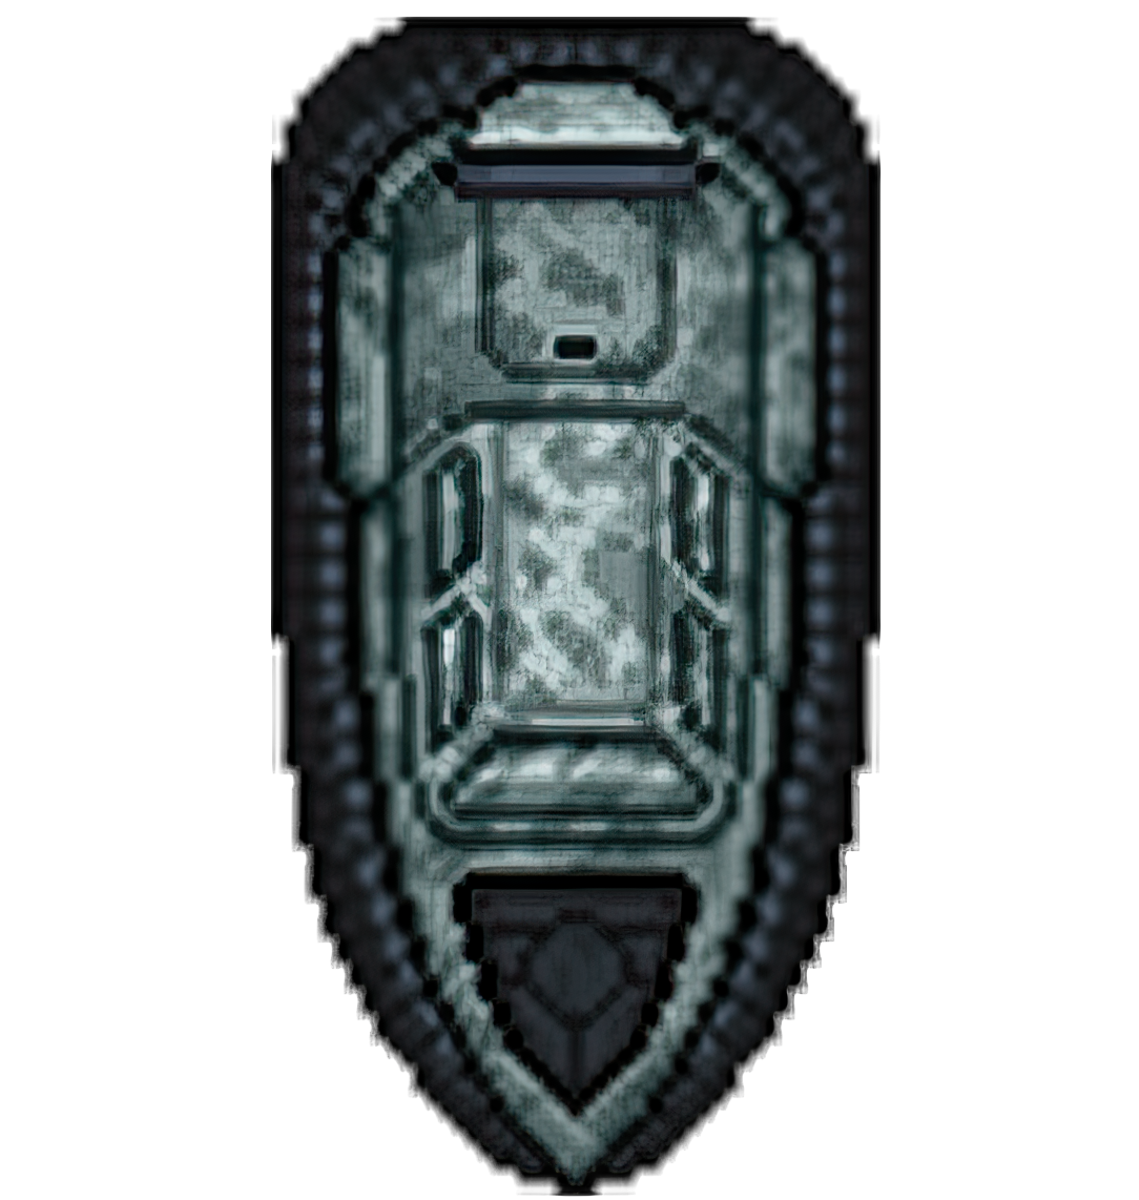
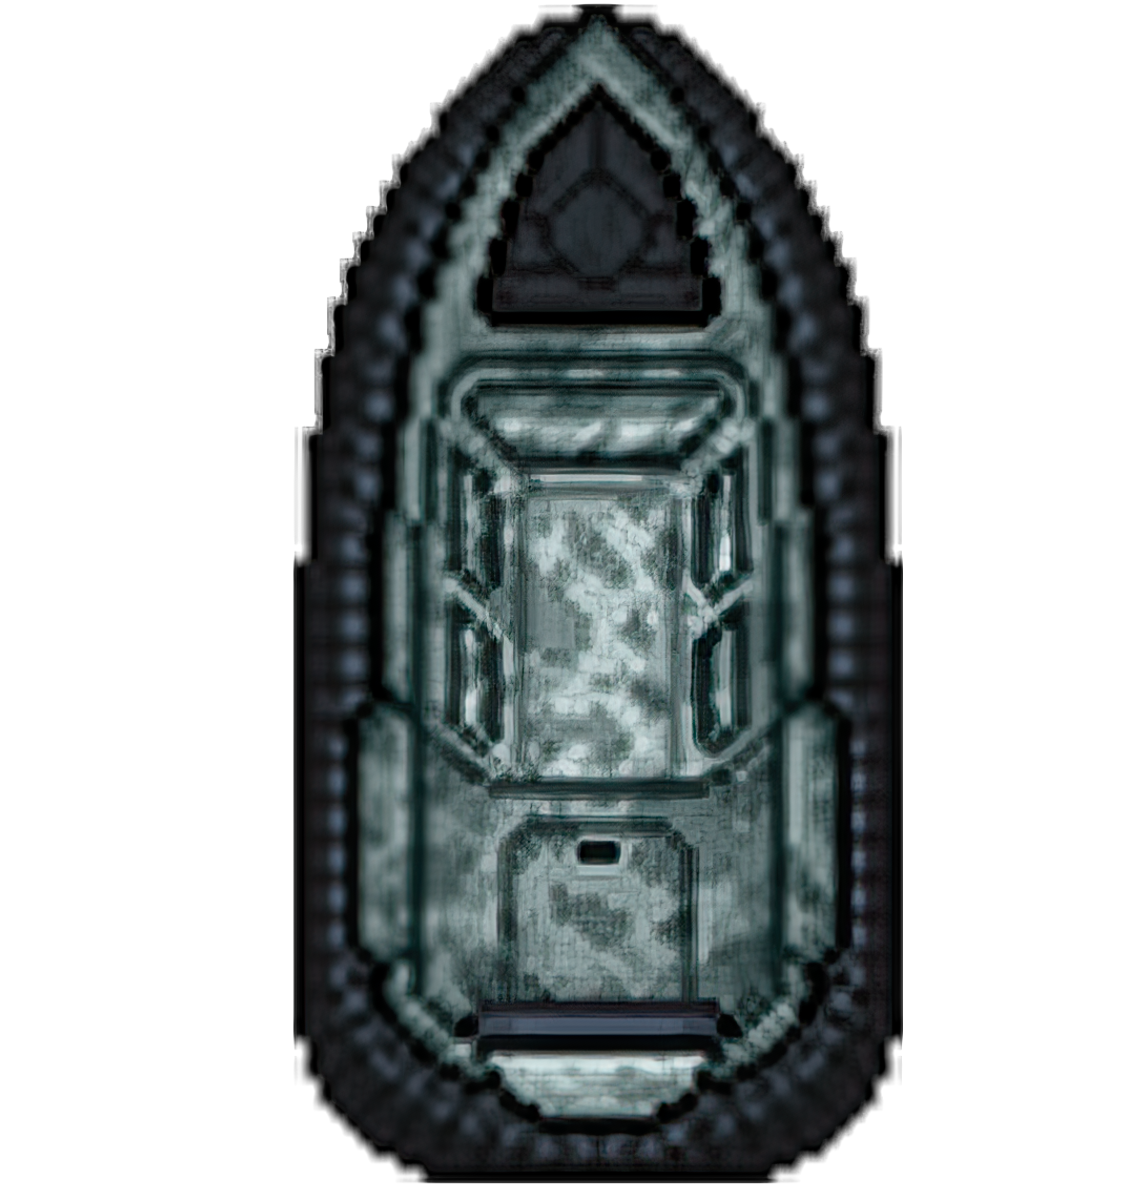
islands layout updated, as well as the boats

diff --git a/GAME307_StudentTemplate/Scene1.cpp b/GAME307_StudentTemplate/Scene1.cpp
@@ -57,16 +57,16 @@ bool Scene1::OnCreate() {
 		islandTexture[i] = SDL_CreateTextureFromSurface(renderer, islandImage[i]);
 	}
 
-	islandRect[0] = { 1200, 600, 250, 300 };
+	islandRect[0] = { 1350, 650, 250, 300 };
 	islandColls[0] = Collider2D(islandRect[0].x, islandRect[0].y+50, islandImage[0]->w - 50, islandImage[0]->h / 1.5);
 	islandColls[0].SetColliderActive(true);
 
 
-	islandRect[1] = { 400, 50, 150, 150 };
-	islandRect[2] = { 700, 0, 200, 250 };
-	islandRect[3] = { 100, 200, 200, 200 };
-	islandRect[4] = { 350, 400, 150, 150 };
-	islandRect[5] = { 100, 25, 150, 150 };
+	islandRect[1] = { 1300, 150, 150, 150 };
+	islandRect[2] = { 900, 600, 200, 250 };
+	islandRect[3] = { 300, 100, 200, 200 };
+	islandRect[4] = { 800, 300, 150, 150 };
+	islandRect[5] = { 400, 650, 150, 150 };
 
 	game->getPlayer()->setImage(playerImage);
 	game->getPlayer()->setTexture(playerTexture);
@@ -75,7 +75,7 @@ bool Scene1::OnCreate() {
 	// Set up characters, choose good values for the constructor
 	// or use the defaults, like this
 	blinky = new Character();
-	if (!blinky->OnCreate(this) || !blinky->setTextureWith("Blinky.png") )
+	if (!blinky->OnCreate(this) || !blinky->setTextureWith("assets/enemyBoat3.png") )
 	{
 		return false;
 	}
@@ -128,8 +128,8 @@ void Scene1::Render() {
 	}
 
 	// render the player
-	game->RenderPlayer(0.05f);
-	blinky->render(0.1f);
+	game->RenderPlayer(0.03f);
+	blinky->render(0.03f);
 	SDL_RenderPresent(renderer);
 
 	islandColls[0].RenderCollider(renderer);
